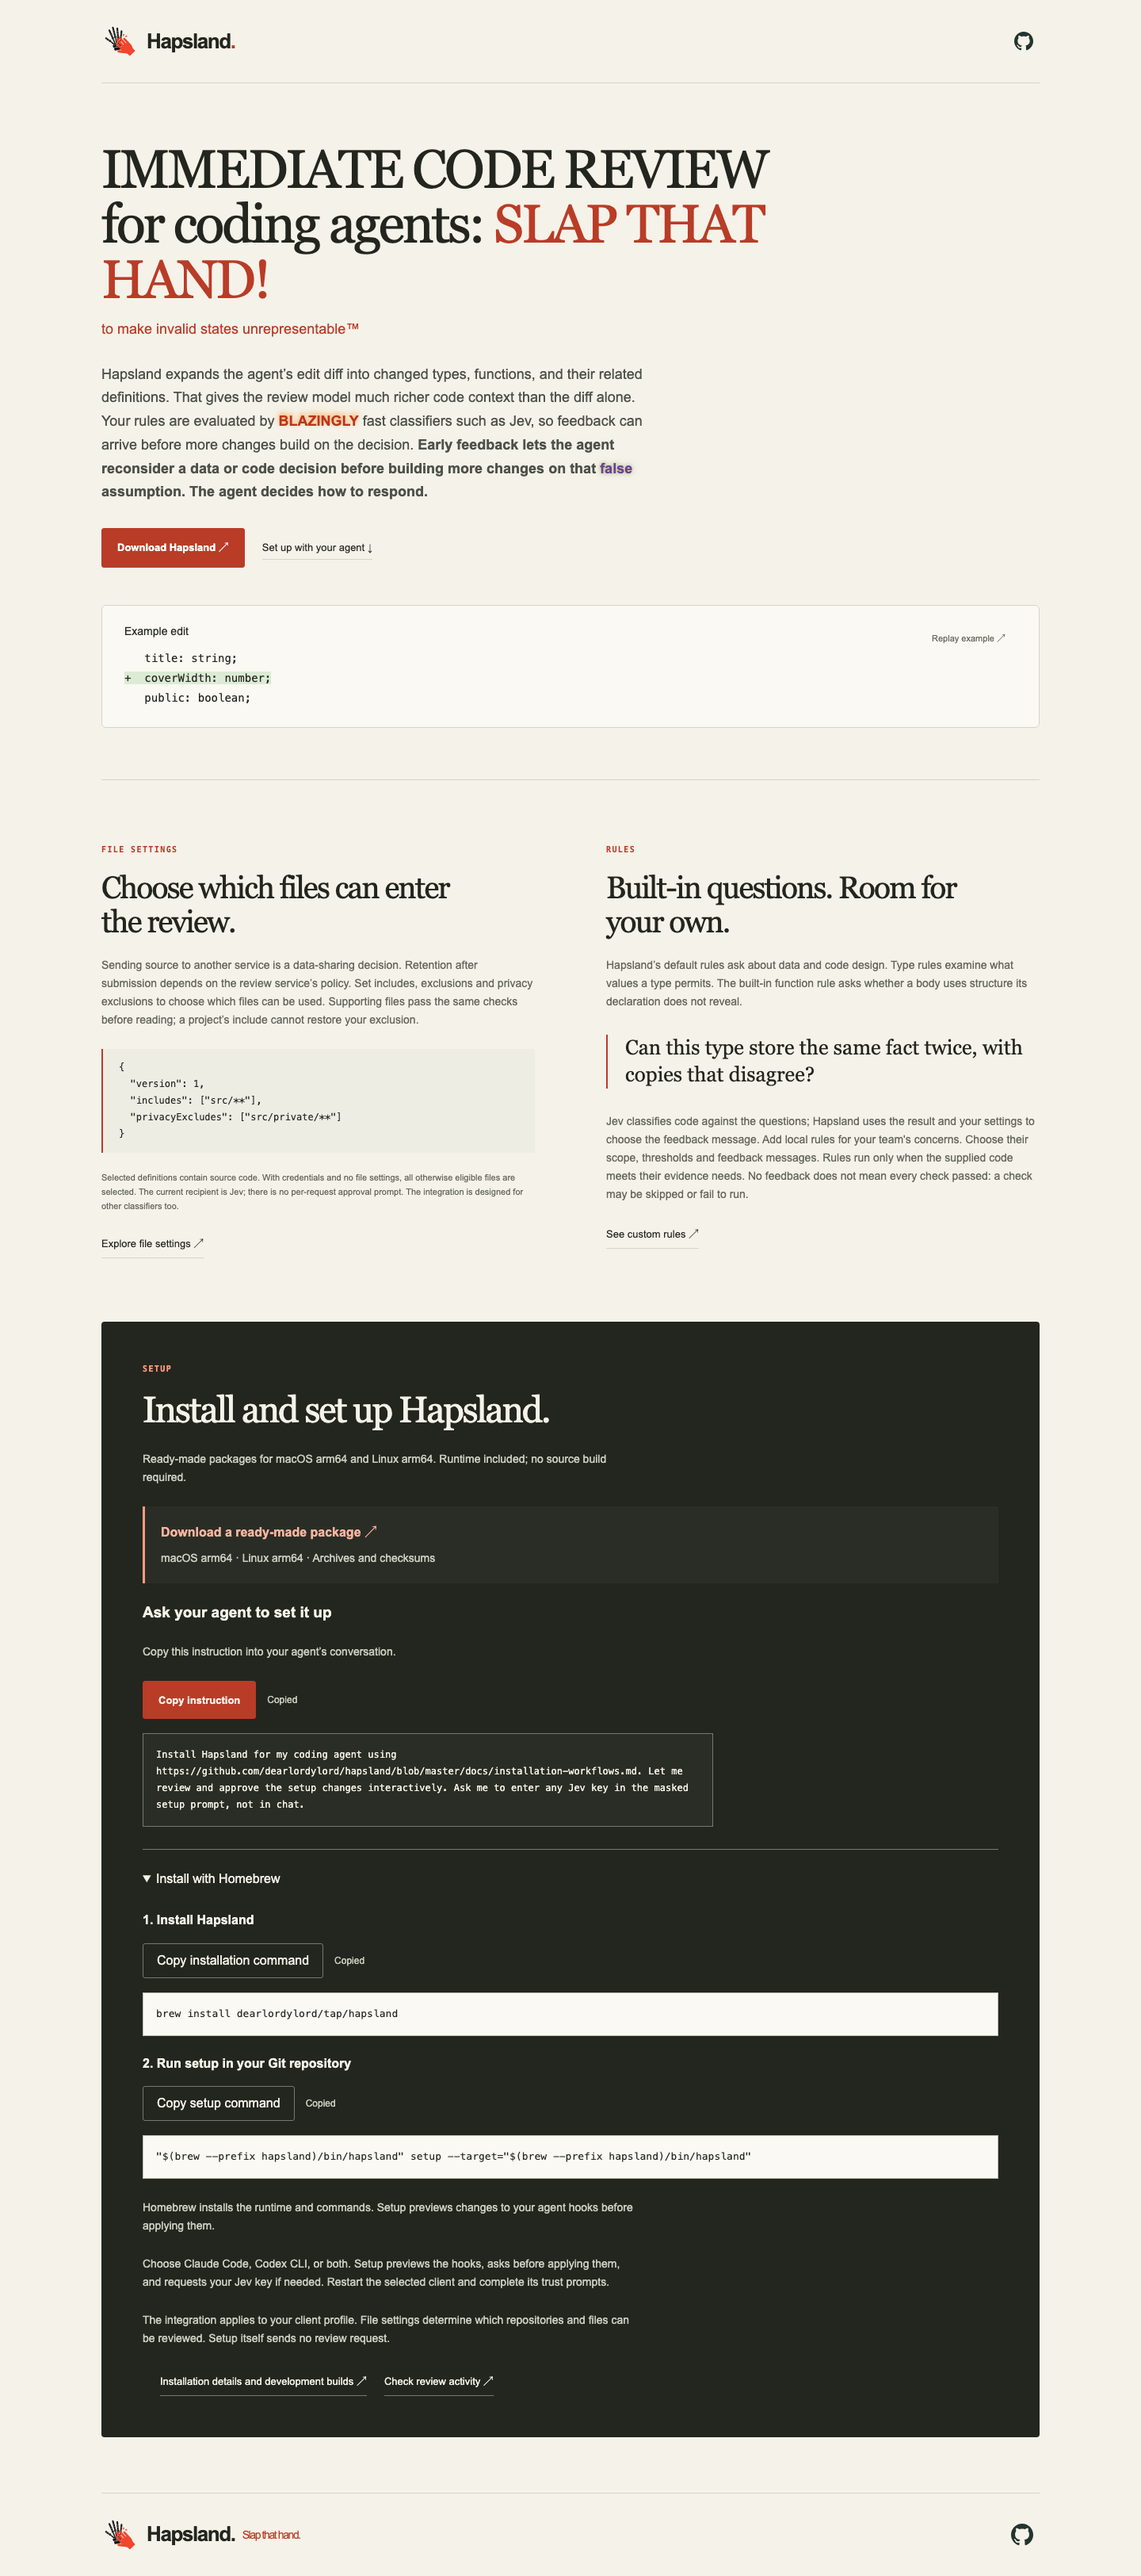
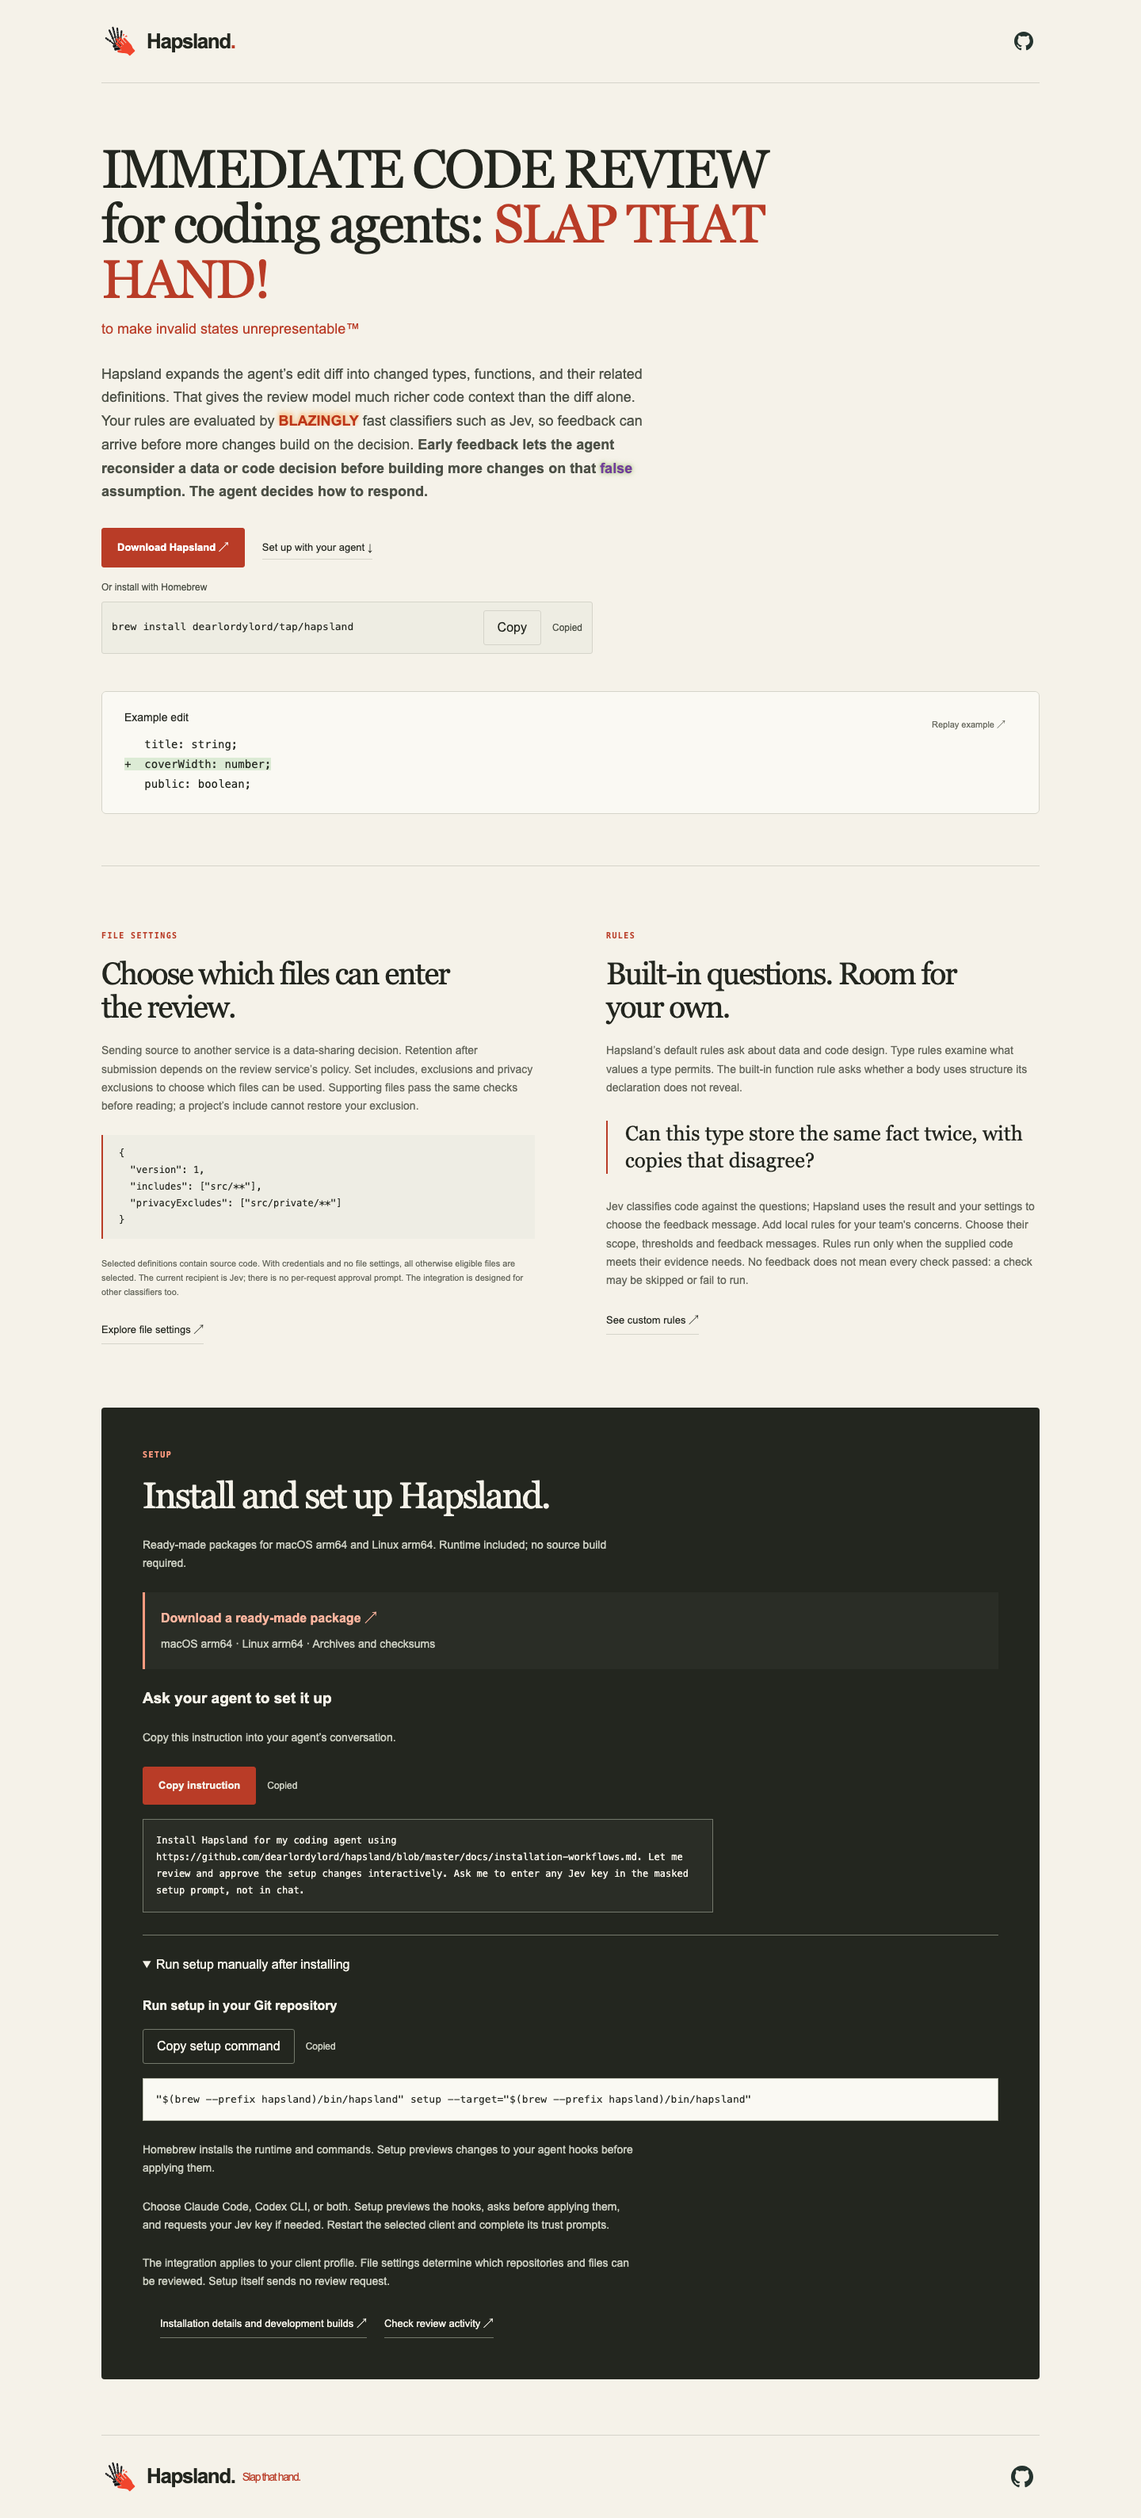
Show copyable Homebrew install directly below download

Changed region(s): [[0.0625, 0.3428, 0.9375, 0.9348], [0.0938, 0.0623, 0.6875, 0.3116], [0.0938, 0.966, 0.125, 0.9972]]

diff --git a/packages/agent-flow-viz/src/site.ts b/packages/agent-flow-viz/src/site.ts
@@ -499,6 +499,16 @@ export const view = (model: Model, h: HtmlBuilder<Message>): Document => ({
                   h.a([h.Href(DOWNLOADS), h.Class("button-primary")], ["Download Hapsland ↗"]),
                   h.a([h.Href("#setup"), h.Class("text-link")], ["Set up with your agent ↓"])
                 ]
+              ),
+              h.div(
+                [h.Class("hero-install")],
+                [
+                  h.p([h.Class("hero-install-label")], ["Or install with Homebrew"]),
+                  h.div(
+                    [h.Class("hero-install-row")],
+                    [h.pre([], [h.code([], [SETUP_COPY.install])]), copyButton(model, h, "install", "Copy")]
+                  )
+                ]
               )
             ]
           ),
@@ -585,19 +595,11 @@ export const view = (model: Model, h: HtmlBuilder<Message>): Document => ({
           h.details(
             [h.Class("manual-setup")],
             [
-              h.summary([], ["Install with Homebrew"]),
+              h.summary([], ["Run setup manually after installing"]),
               h.div(
                 [h.Class("setup-command")],
                 [
-                  h.h3([], ["1. Install Hapsland"]),
-                  copyButton(model, h, "install", "Copy installation command"),
-                  h.pre([], [h.code([], [SETUP_COPY.install])])
-                ]
-              ),
-              h.div(
-                [h.Class("setup-command")],
-                [
-                  h.h3([], ["2. Run setup in your Git repository"]),
+                  h.h3([], ["Run setup in your Git repository"]),
                   copyButton(model, h, "setup", "Copy setup command"),
                   h.pre([], [h.code([], [SETUP_COPY.setup])])
                 ]

diff --git a/packages/agent-flow-viz/src/site.css b/packages/agent-flow-viz/src/site.css
@@ -1569,3 +1569,43 @@ h3 {
   margin: 10px 0 0;
   font-size: 14px;
 }
+
+.hero-install {
+  margin-top: 16px;
+  max-width: 620px;
+}
+.hero-install-label {
+  color: #4d5147;
+  font-size: 12px;
+}
+.hero-install-row {
+  display: flex;
+  align-items: center;
+  flex-wrap: wrap;
+  gap: 12px;
+  margin-top: 7px;
+  padding: 10px 12px;
+  border: 1px solid var(--line);
+  border-radius: 3px;
+  background: #eeede3;
+}
+.hero-install-row pre {
+  flex: 1;
+  min-width: 0;
+  margin: 0;
+  font-size: 13px;
+  white-space: pre-wrap;
+  overflow-wrap: anywhere;
+}
+.hero-install-row .copy-control {
+  margin: 0;
+  flex-shrink: 0;
+}
+.hero-install-row .copy-status {
+  color: #4d5147;
+}
+@media (max-width: 600px) {
+  .hero-install-row pre {
+    flex-basis: 100%;
+  }
+}

diff --git a/packages/agent-flow-viz/README.md b/packages/agent-flow-viz/README.md
@@ -88,9 +88,10 @@ controls, paused Canvas output, mobile resizing, manual reduced-motion steps, an
 clipboard contents on secure and HTTP/IP origins. The linked captures below show
 the current circular composition.
 
-The hero highlights the latest platform download beside the agent setup link.
+The hero highlights the latest platform download beside the agent setup link,
+with an always-visible, copyable Homebrew command directly below.
 The setup section highlights ready-made archives immediately above the copyable
-agent instruction, with Homebrew installation and setup commands in a disclosure. Text is owned by `../agent-flow-projection/src/setup-copy.ts`.
+agent instruction, with the manual setup command in a disclosure. Text is owned by `../agent-flow-projection/src/setup-copy.ts`.
 The agent instruction also generates marked sections in the root README and
 installation guide through `npm run docs:generate`; `docs:generated:check` rejects drift.
 FoldKit commands call `src/site-clipboard.ts`. Secure origins use Clipboard API,
